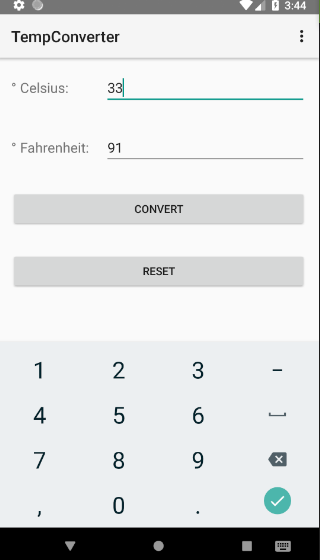
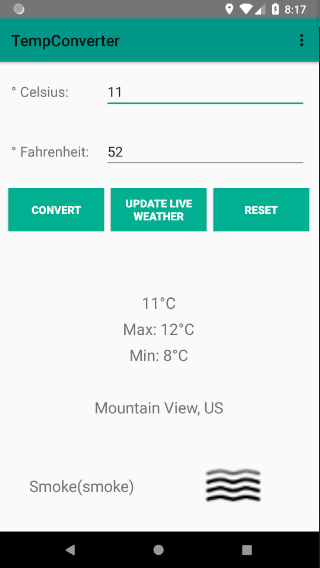
updated description

diff --git a/README.md b/README.md
@@ -2,6 +2,9 @@
 
 This application provides a simple solution to convert from 
 Celsius to Fahrenheit and back.  
+
+In Version v2.1 now with the ability to get the live weather for your  
+current location.  
   
 The application was intended for practicing android programming. Despite it
 may not be very well written or even useful, I still hope someone may be
